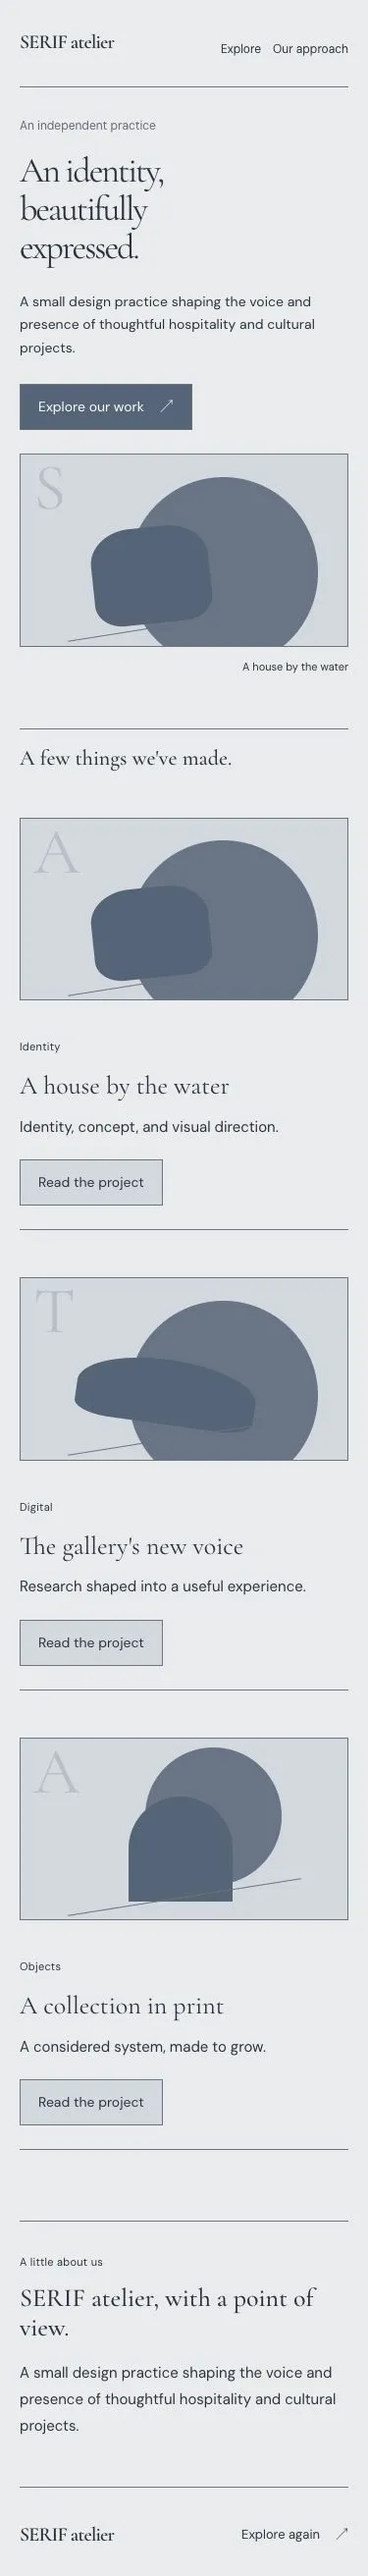
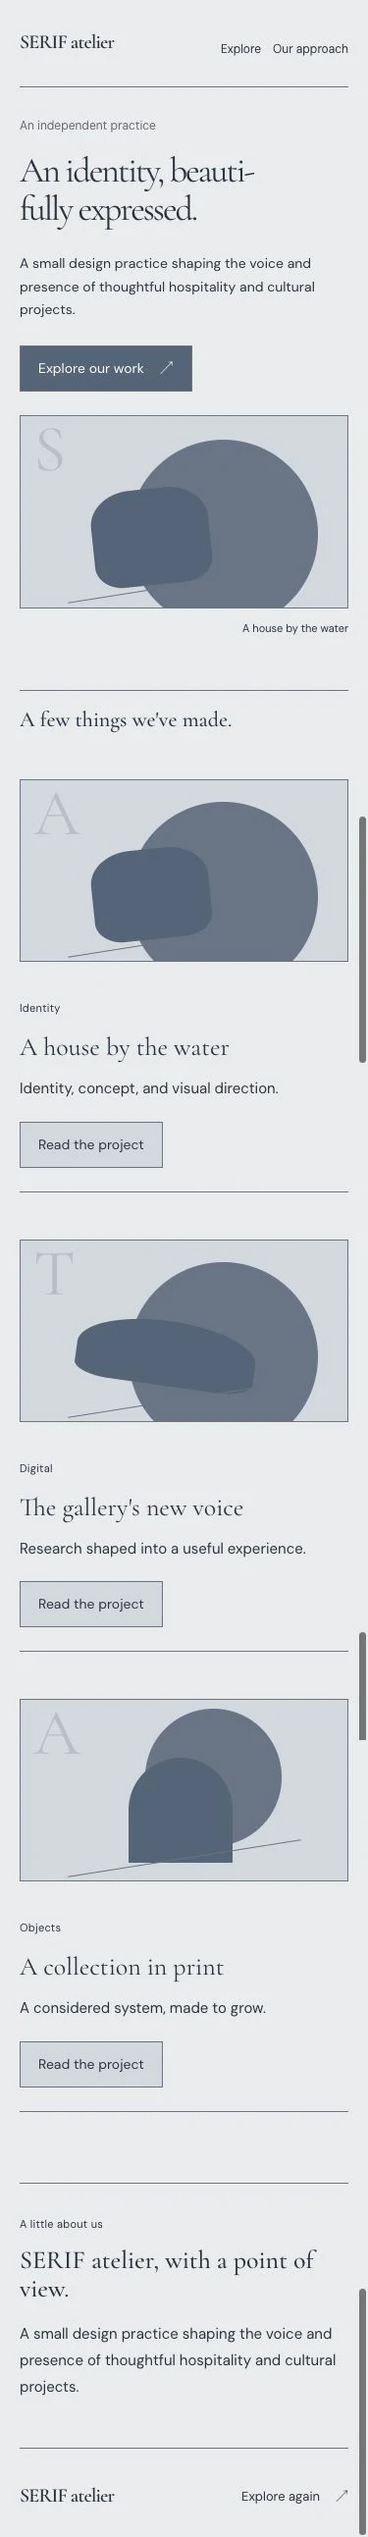
Refresh luxury-typography references and synchronize its reusable skill assets.

diff --git a/skills/designkit-luxury-typography/assets/shared/KitControls.tsx b/skills/designkit-luxury-typography/assets/shared/KitControls.tsx
@@ -1,11 +1,14 @@
 "use client";
-
 import {
   useEffect,
   useId,
   useRef,
+  useState,
   type ButtonHTMLAttributes,
   type InputHTMLAttributes,
+  type HTMLAttributes,
+  type DialogHTMLAttributes,
+  type MouseEvent,
   type ReactNode,
 } from "react";
 
@@ -26,15 +29,16 @@ export function KitCard({
   label,
   children,
   action,
-}: {
-  title: string;
-  label?: string;
-  children?: ReactNode;
+  className = "",
+  ...props
+}: Omit<HTMLAttributes<HTMLElement>, "title"> & {
+  title: ReactNode;
+  label?: ReactNode;
   action?: ReactNode;
 }) {
   return (
-    <article className="kit-card">
-      <span className="kit-label">{label}</span>
+    <article {...props} className={`kit-card ${className}`}>
+      {label ? <span className="kit-label">{label}</span> : null}
       <h3>{title}</h3>
       {children}
       {action ? <div className="kit-card-action">{action}</div> : null}
@@ -44,18 +48,38 @@ export function KitCard({
 export function KitNavigation({
   brand,
   links,
-}: {
+  onNavigate,
+  className = "",
+  ...props
+}: HTMLAttributes<HTMLElement> & {
   brand: string;
   links: { label: string; href: string }[];
+  onNavigate?: (href: string, event: MouseEvent<HTMLAnchorElement>) => void;
 }) {
   return (
-    <nav className="kit-navigation" aria-label={`${brand} example navigation`}>
-      <a className="kit-brand" href={links[0]?.href}>
-        {brand}
-      </a>
+    <nav
+      {...props}
+      className={`kit-navigation ${className}`}
+      aria-label={props["aria-label"] || `${brand} navigation`}
+    >
+      {links[0]?.href ? (
+        <a
+          className="kit-brand"
+          href={links[0].href}
+          onClick={(event) => onNavigate?.(links[0].href, event)}
+        >
+          {brand}
+        </a>
+      ) : (
+        <span className="kit-brand">{brand}</span>
+      )}
       <div>
-        {links.map((link) => (
-          <a key={link.label} href={link.href}>
+        {links.map((link, index) => (
+          <a
+            key={`${link.href}:${index}`}
+            href={link.href}
+            onClick={(event) => onNavigate?.(link.href, event)}
+          >
             {link.label}
           </a>
         ))}
@@ -69,16 +93,20 @@ export function KitField({
   id,
   ...props
 }: InputHTMLAttributes<HTMLInputElement> & { label: string; error?: string }) {
-  const generated = useId();
-  const fieldId = id || generated;
+  const generated = useId(),
+    fieldId = id || generated;
+  const describedBy =
+    [props["aria-describedby"], error ? `${fieldId}-error` : undefined]
+      .filter(Boolean)
+      .join(" ") || undefined;
   return (
     <div className="kit-field">
       <label htmlFor={fieldId}>{label}</label>
       <input
         {...props}
         id={fieldId}
-        aria-invalid={Boolean(error)}
-        aria-describedby={error ? `${fieldId}-error` : undefined}
+        aria-invalid={error ? true : props["aria-invalid"]}
+        aria-describedby={describedBy}
       />
       {error ? (
         <p id={`${fieldId}-error`} className="kit-field-error">
@@ -91,43 +119,100 @@ export function KitField({
 export function KitStatus({
   state,
   children,
-}: {
+  className = "",
+  ...props
+}: HTMLAttributes<HTMLParagraphElement> & {
   state: "loading" | "empty" | "error" | "success";
-  children: ReactNode;
 }) {
   return (
     <p
-      className={`kit-status kit-status-${state}`}
-      role={state === "error" ? "alert" : "status"}
+      {...props}
+      className={`kit-status kit-status-${state} ${className}`}
+      role={props.role || (state === "error" ? "alert" : "status")}
     >
       {children}
     </p>
   );
 }
+const bodyLocks = new WeakMap<
+  HTMLElement,
+  { count: number; overflow: string }
+>();
+function lockBody(body: HTMLElement) {
+  const lock = bodyLocks.get(body) || {
+    count: 0,
+    overflow: body.style.overflow,
+  };
+  lock.count++;
+  bodyLocks.set(body, lock);
+  body.style.overflow = "hidden";
+  let released = false;
+  return () => {
+    if (released) return;
+    released = true;
+    lock.count--;
+    if (!lock.count) {
+      body.style.overflow = lock.overflow;
+      bodyLocks.delete(body);
+    }
+  };
+}
+type KitDialogProps = Omit<
+  DialogHTMLAttributes<HTMLDialogElement>,
+  "title" | "open"
+> & { title: ReactNode; trigger: ReactNode } & (
+    | { open?: undefined; onOpenChange?: (open: boolean) => void }
+    | { open: boolean; onOpenChange: (open: boolean) => void }
+  );
 export function KitDialog({
   trigger,
   title,
   children,
-}: {
-  trigger: string;
-  title: string;
-  children: ReactNode;
-}) {
-  const dialog = useRef<HTMLDialogElement>(null);
-  const opener = useRef<HTMLButtonElement>(null);
-  const previousOverflow = useRef<string | null>(null);
-  const titleId = useId();
-  const restore = () => {
-    if (previousOverflow.current !== null) {
-      document.body.style.overflow = previousOverflow.current;
-      previousOverflow.current = null;
-    }
-    opener.current?.focus({ preventScroll: true });
+  open,
+  onOpenChange,
+  className = "",
+  onClose,
+  onCancel,
+  ...props
+}: KitDialogProps) {
+  const dialog = useRef<HTMLDialogElement>(null),
+    opener = useRef<HTMLButtonElement>(null);
+  const previousFocus = useRef<HTMLElement | null>(null),
+    release = useRef<(() => void) | null>(null);
+  const [internalOpen, setInternalOpen] = useState(false);
+  const isOpen = open ?? internalOpen,
+    titleId = useId();
+  const request = (next: boolean) => {
+    if (open === undefined) setInternalOpen(next);
+    onOpenChange?.(next);
   };
+  const restore = () => {
+    release.current?.();
+    release.current = null;
+    const target = previousFocus.current?.isConnected
+      ? previousFocus.current
+      : opener.current;
+    if (target?.isConnected) target.focus({ preventScroll: true });
+    previousFocus.current = null;
+  };
+  useEffect(() => {
+    const element = dialog.current;
+    if (!element) return;
+    if (isOpen) {
+      if (!element.open) {
+        previousFocus.current ??=
+          document.activeElement instanceof HTMLElement
+            ? document.activeElement
+            : opener.current;
+        element.showModal();
+      }
+      if (!release.current) release.current = lockBody(document.body);
+    } else if (!isOpen && element.open) element.close();
+  }, [isOpen]);
   useEffect(
     () => () => {
-      if (previousOverflow.current !== null)
-        document.body.style.overflow = previousOverflow.current;
+      release.current?.();
+      release.current = null;
     },
     [],
   );
@@ -137,21 +222,27 @@ export function KitDialog({
         ref={opener}
         className="kit-button kit-button-secondary"
         type="button"
+        aria-haspopup="dialog"
         onClick={() => {
-          previousOverflow.current = document.body.style.overflow;
-          dialog.current?.showModal();
-          document.body.style.overflow = "hidden";
+          previousFocus.current = opener.current;
+          request(true);
         }}
       >
         {trigger}
       </button>
       <dialog
-        className="kit-dialog"
+        {...props}
+        className={`kit-dialog ${className}`}
         ref={dialog}
-        aria-labelledby={titleId}
-        onClose={restore}
+        aria-labelledby={props["aria-labelledby"] || titleId}
+        onCancel={(event) => onCancel?.(event)}
+        onClose={(event) => {
+          restore();
+          if (isOpen) request(false);
+          onClose?.(event);
+        }}
       >
-        <div>
+        <div className="kit-dialog-heading">
           <h3 id={titleId}>{title}</h3>
           <button
             type="button"

diff --git a/skills/designkit-luxury-typography/assets/shared/ExampleCanvas.tsx b/skills/designkit-luxury-typography/assets/shared/ExampleCanvas.tsx
@@ -1,6 +1,6 @@
 "use client";
 
-import { useId, useState, type CSSProperties } from "react";
+import { useId, useState, type CSSProperties, type MouseEvent } from "react";
 import type {
   DesignExample,
   PlaygroundSettings,
@@ -62,10 +62,19 @@ export default function ExampleCanvas({
     `${item.title} ${item.label}`.toLowerCase().includes(query.toLowerCase()),
   );
   const headline = normalized.headline;
-  const goToContent = () =>
-    document
-      .getElementById(sectionId)
-      ?.scrollIntoView({ behavior: "instant", block: "start" });
+  const focusSection = (id: string) => {
+    const target = document.getElementById(id);
+    target?.scrollIntoView({ behavior: "instant", block: "start" });
+    target?.focus({ preventScroll: true });
+  };
+  const navigateWithinExample = (
+    href: string,
+    event: MouseEvent<HTMLAnchorElement>,
+  ) => {
+    event.preventDefault();
+    focusSection(href.slice(1));
+  };
+  const goToContent = () => focusSection(sectionId);
   const contextLabel = {
     shop: "A considered collection",
     journal: "An independent journal",
@@ -90,6 +99,7 @@ export default function ExampleCanvas({
     >
       <KitNavigation
         brand={example.brand}
+        onNavigate={navigateWithinExample}
         links={[
           {
             label:
@@ -322,14 +332,17 @@ export default function ExampleCanvas({
           </>
         )}
       </section>
-      <section id={aboutId} className="kit-about">
+      <section id={aboutId} className="kit-about" tabIndex={-1}>
         <span className="kit-label">A little about us</span>
         <h3>{example.brand}, with a point of view.</h3>
         <p>{example.description}</p>
       </section>
       <footer className="kit-footer">
         <span className="kit-brand">{example.brand}</span>
-        <a href={`#${sectionId}`}>
+        <a
+          href={`#${sectionId}`}
+          onClick={(event) => navigateWithinExample(`#${sectionId}`, event)}
+        >
           Explore again <span aria-hidden="true">↗</span>
         </a>
       </footer>

diff --git a/skills/designkit-luxury-typography/assets/shared/kit.css b/skills/designkit-luxury-typography/assets/shared/kit.css
@@ -42,6 +42,7 @@
   font-family: var(--dk-heading), serif;
   font-synthesis: none;
   overflow-wrap: anywhere;
+  hyphens: auto;
 }
 .kit-canvas :is(button, a, input, select, textarea):focus-visible,
 .kit-component-surface :is(button, a, input, select, textarea):focus-visible {
@@ -353,6 +354,11 @@
   background: var(--dk-canvas);
 }
 .kit-dialog {
+  margin: auto;
+  max-height: calc(100dvh - 48px);
+  overflow: auto;
+  overscroll-behavior: contain;
+  overflow-wrap: anywhere;
   max-width: min(520px, calc(100vw - 40px));
   padding: 28px;
   color: var(--dk-ink);
@@ -365,7 +371,7 @@
 .kit-dialog::backdrop {
   background: rgb(0 0 0 / 0.45);
 }
-.kit-dialog > div {
+.kit-dialog-heading {
   display: flex;
   justify-content: space-between;
   gap: 20px;

diff --git a/skills/designkit-luxury-typography/assets/shared/tokens.ts b/skills/designkit-luxury-typography/assets/shared/tokens.ts
@@ -3,6 +3,7 @@ import type {
   PlaygroundSettings,
   StyleRecipe,
 } from "./types";
+import { kitVersion } from "./types";
 
 export const fontFamilies = [
   "Archivo Black",
@@ -258,7 +259,7 @@ export function exportDesignTokens(
       "dev.designkit": {
         exampleId: example.id,
         styleId: example.styleId,
-        version: "2.0.0",
+        version: kitVersion,
         settings,
         cssShadow: values["--dk-shadow"],
       },
